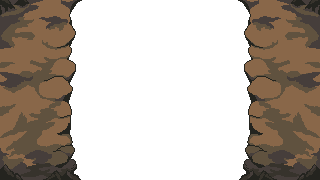
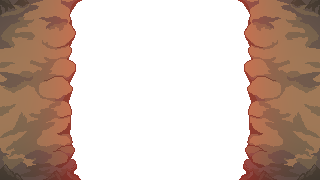
Add lava lighting effect.

diff --git a/src/scripts/scenes/MainScene.ts b/src/scripts/scenes/MainScene.ts
@@ -44,6 +44,7 @@ export class MainScene extends BaseScene {
 		this.myImage = this.add.image(this.CX, this.CY, "pika");
 		this.ground = this.add.image(this.CX, this.CY, "ground");
 		this.myImage.setTint(0xFF0000);
+		this.myImage.setBlendMode(Phaser.BlendModes.ADD);
 		this.myImage.setAlpha(0.2);
 		this.containToScreen(this.lava);
 		this.containToScreen(this.ground);
@@ -156,6 +157,8 @@ export class MainScene extends BaseScene {
 		this.player1.update(time, delta);
 		this.player2.update(time, delta);
 		this.dragon.update(time, delta);
+
+		this.myImage.setAlpha(0.2 + 0.1 * Math.sin(5*time/1000));
 
 		this.particles.update(time, delta);
 
